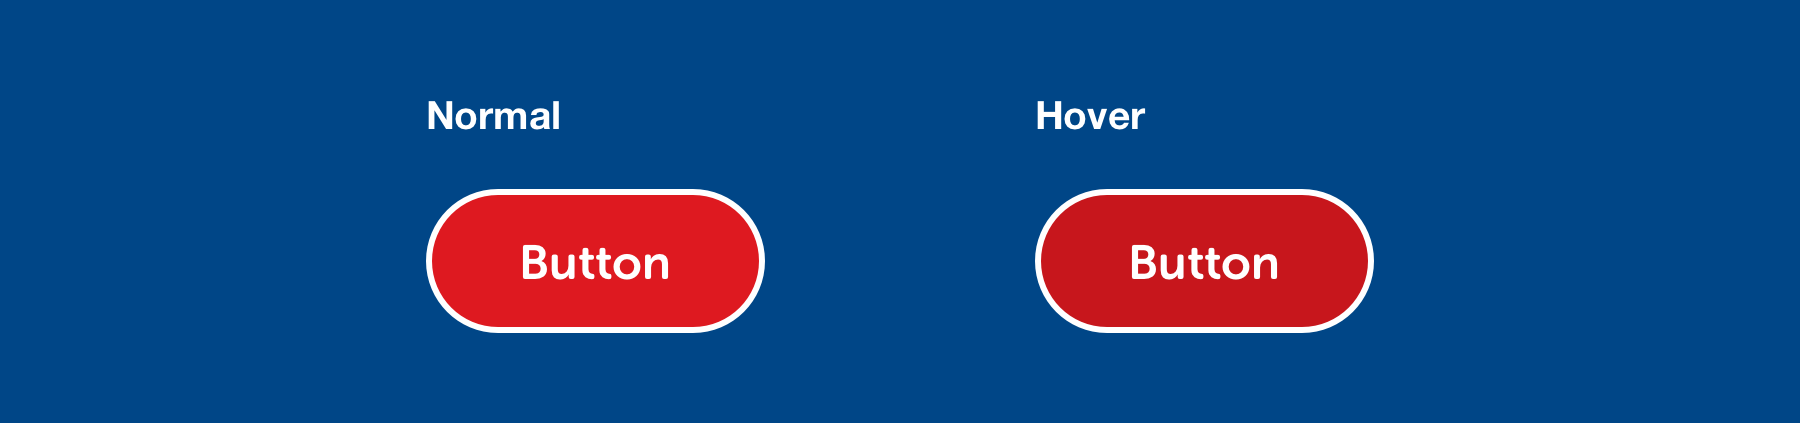
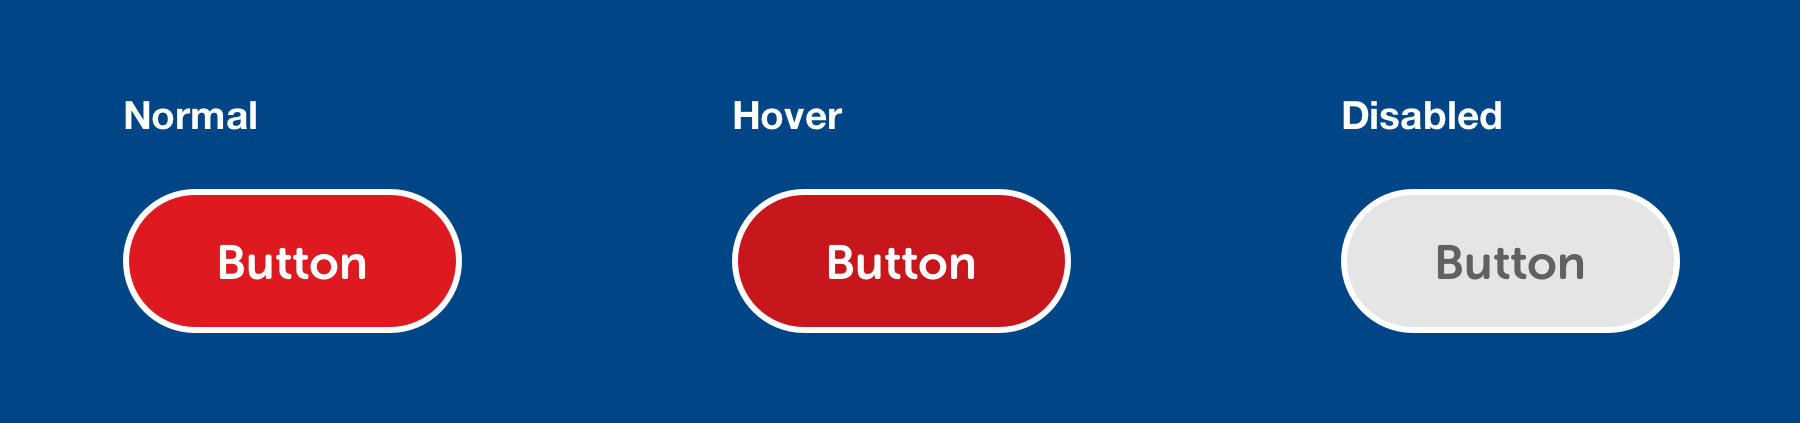
GitBook: [master] one page and 13 assets modified

diff --git a/website-patterns/buttons/buttons.md b/website-patterns/buttons/buttons.md
@@ -77,7 +77,7 @@ border: 2px solid #E5E5E5;
 
 ### Dark theme
 
-![](../../.gitbook/assets/secondary-button-dark%20%281%29.png)
+![](../../.gitbook/assets/secondary-button-dark.png)
 
 ```css
 /* Normal */
@@ -87,6 +87,10 @@ border: 2px solid #FFF;
 
 /* Hover */
 background-color: #003E79;
+
+/* Hover */
+color: rgba(255,255,255,.5);
+border: 2px solid rgba(255,255,255,.5);
 ```
 
 ## Destructive button
@@ -104,6 +108,10 @@ color: #FFF;
 
 /* Hover */
 background-color: #C7161C;
+
+/* Disabled */
+background-color: #E5E5E5;
+color: #616161;
 ```
 
 ### Dark theme
@@ -131,11 +139,15 @@ color: #FFFFFF;
 
 /* Hover */
 background-color: #177407;
+
+/* Disabled */
+background-color: #E5E5E5;
+color: #616161;
 ```
 
 ### Dark theme
 
-![](../../.gitbook/assets/conversion-button-dark.png)
+![](../../.gitbook/assets/conversion-button-dark%20%281%29.png)
 
 ```css
 /* Styling is as per 'light' theme plus */
